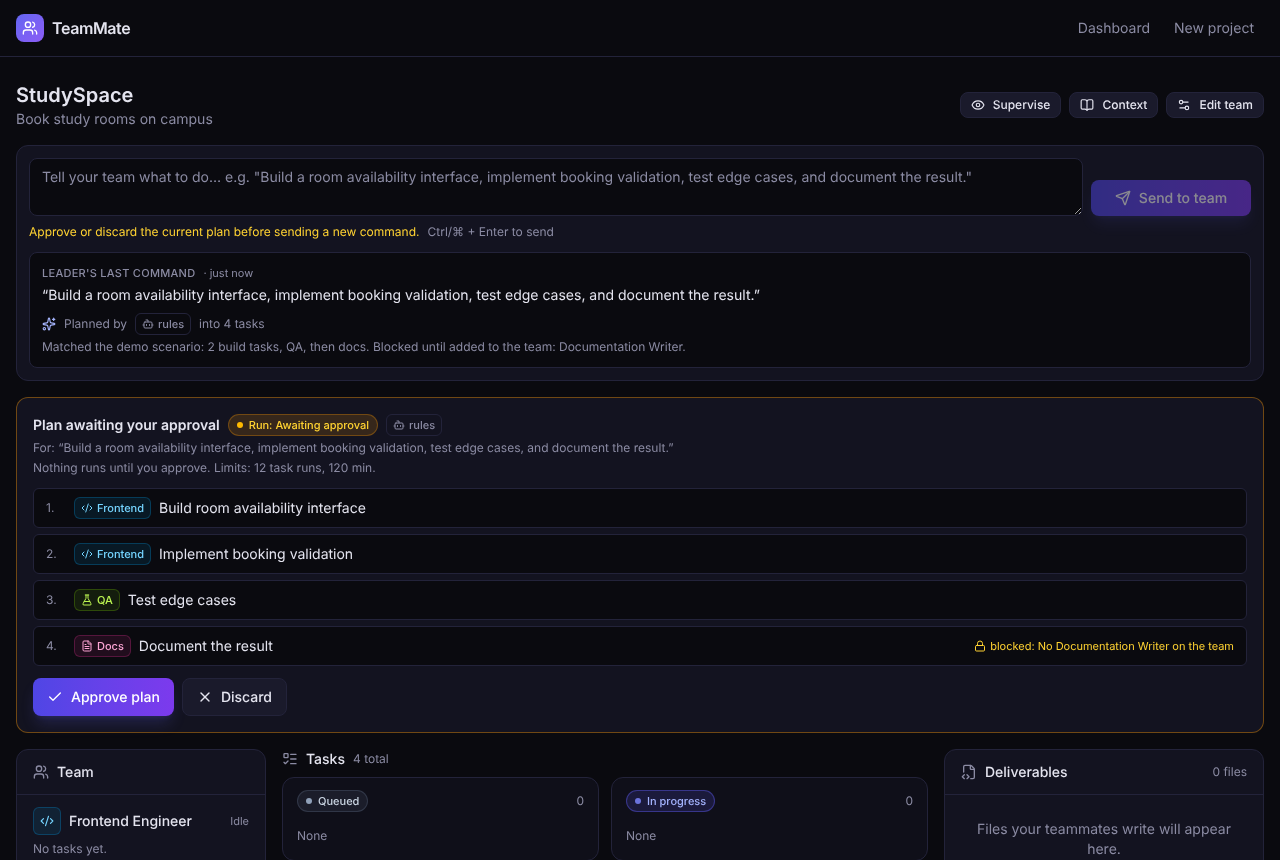
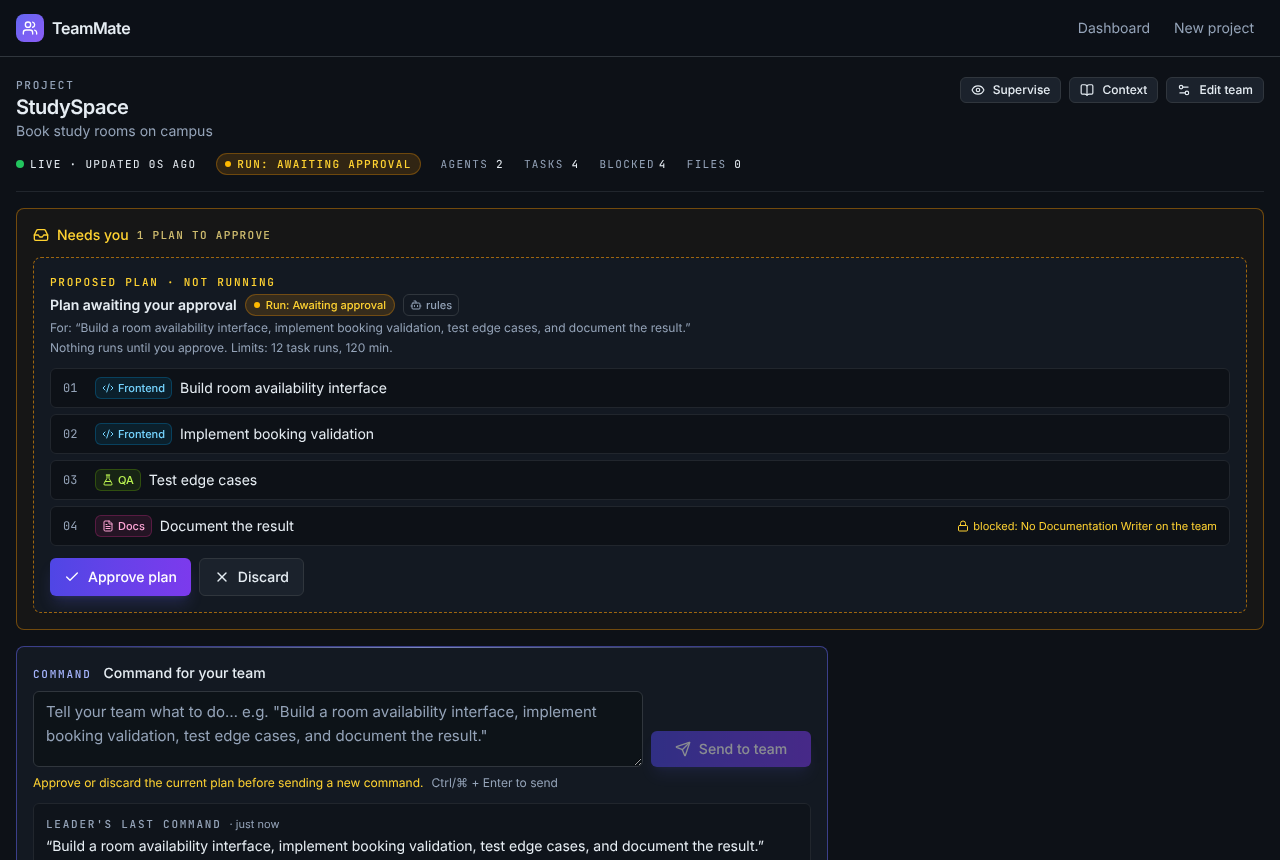
jarvis 5: status-aware run label; README features + refreshed screenshots from the redesigned app
Claude-Session: https://claude.ai/code/session_01QfqeJgq4cvXmfCNdb4BZnp

diff --git a/client/src/pages/Workspace.tsx b/client/src/pages/Workspace.tsx
@@ -59,7 +59,7 @@ export default function Workspace() {
           {run && run.status !== 'AWAITING_APPROVAL' && (
             <section className={`card border-l-4 p-4 ${run.status === 'RUNNING' ? 'border-l-indigo-400' : run.status === 'PAUSED' ? 'border-l-violet-400' : 'border-l-line'}`} aria-labelledby="run-h" data-testid="run-panel">
               <div className="mb-2 flex items-center gap-2">
-                <h2 id="run-h" className="kicker">Executing run</h2>
+                <h2 id="run-h" className="kicker">{run.status === 'RUNNING' ? 'Executing run' : run.status === 'PAUSED' ? 'Paused run' : 'Last run'}</h2>
                 <Link to={`/projects/${id}/supervise`} className="ml-auto inline-flex min-h-10 items-center text-xs text-accent-ink hover:underline sm:min-h-0">Supervise →</Link>
               </div>
               <RunControls s={s} onChange={snap.reload} />

diff --git a/README.md b/README.md
@@ -30,6 +30,8 @@ We wanted to try the other shape: AI teammates that receive assigned tasks, writ
 - **Run limits.** Each run has a task limit (default 12 task runs) and a time limit (default 2 hours). Hitting one stops the run with a "Budget exhausted" message.
 - **Failure decisions.** A failed task pauses the run and opens a retry/skip decision card in an in-app inbox (no push notifications).
 - **Handoffs.** When a task finishes, a short message goes to the next teammate: which files are ready and a summary.
+- **Mission map.** The workspace draws the leader, each agent's real task assignments and status, and dashed links only for handoff messages that were actually recorded. Tasks run in planner order; there is no dependency graph, and the map says so.
+- **Activity stream and QA inspector.** Timestamped events with filters (tasks, tools, handoffs, decisions, files). The QA report view lists every check with its raw command output, and failed checks open automatically.
 - **Mobile supervise page** at `/projects/:id/supervise`, built for a 375px-wide phone screen.
 - **Survives restarts.** State is in SQLite. If the server stops mid-task, that task is marked `FAILED ("Interrupted by restart")` on the next start, and running runs pick up their queued work again.
 - **Honest labels.** Output from the built-in templates is marked `mock · template` everywhere in the UI; nothing claims a model wrote it.
